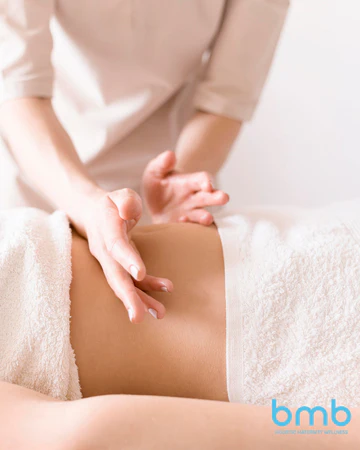
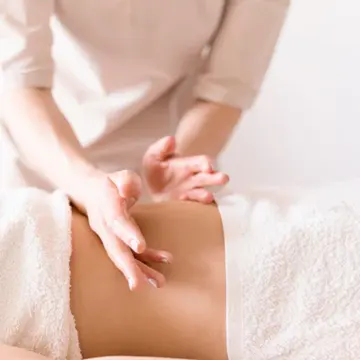
Made images into webp
small KB to render faster

diff --git a/src/_mock/_others.js b/src/_mock/_others.js
@@ -11,7 +11,7 @@ export const _carouselPackages = [
   {
     id: 1,
     name: '28 Days Dual Meal',
-    image: '/menu/Nourishing_and_Beautifying_Black_Chicken_Soup.png',
+    image: '/menu/HakkaYellowWineChickenwithBlackFungus_360x.webp',
     alt: '28 Days Dual Meal',
     description: 'Lunch and Dinner | $$/meal',
     price: '$1,768.00'
@@ -19,7 +19,7 @@ export const _carouselPackages = [
   {
     id: 2,
     name: '14 Days Dual Meal',
-    image: '/menu/Pigs_Trotter_with_Ginger_Vinegar_and_Egg.png',
+    image: '/menu/Pigs_Trotter_with_Ginger_Vinegar_and_Egg.webp',
     alt: '14 Days Dual Meal',
     description: 'Lunch and Dinner | $$/meal',
     price: '$968.00'
@@ -27,7 +27,7 @@ export const _carouselPackages = [
   {
     id: 3,
     name: '7 Days Dual Meal',
-    image: '/menu/He_Shou_Wu_Pork_Rib_Soup.png',
+    image: '/menu/product-2.webp',
     alt: '7 Days Dual Meal',
     description: 'Lunch and Dinner | $$/meal',
     price: '$498.00'
@@ -46,7 +46,7 @@ export const _carouselBenefits = [
   {
     id: 2,
     name: 'Meals crafted for your recovery',
-    image: '/assets/benefitsImage/Benefit-2.png',
+    image: '/assets/benefitsImage/Benefit-2.webp',
     alt: 'Meals crafted for your recovery',
     size: 'cover',
     description: 'Our meals are prepared low in sodium and MSG-free without compromising the taste. These essential nutrients and traditional herbs improve digestion, support healthy lactation and restore the body\'s core energy.',
@@ -54,7 +54,7 @@ export const _carouselBenefits = [
   {
     id: 3,
     name: 'Alchemy Fibre™ For healthier mum',
-    image: '/assets/benefitsImage/Benefit-3.png',
+    image: '/assets/benefitsImage/Benefit-3.webp',
     alt: 'Alchemy Fibre™ For healthier mum',
     size: 'contain',
     description: 'At Chilli Padi Confinement, we enhance our Fragrant White Rice with Alchemy Fibre™ for Rice, providing a healthier choice for new mothers. This revolutionary blend of low GI, high fibre, and prebiotics transforms white rice, significantly increasing its fibre content without compromising taste or texture.',
@@ -66,7 +66,7 @@ export const _carouselPromotion = [
     id: 1,
     name: 'Baby Full Month Gift Set',
     url: paths.product.root,
-    image: '/assets/feature/feature-3.png',
+    image: '/assets/feature/feature-3.webp',
     alt: 'Baby Full Month Gift Set',
     size: 'cover',
     description: 'Celebrate the arrival of your newborn! Full Month Gift Sets are typically given to friends and relatives to announce the birth of a baby. A time-honoured tradition in Chinese culture, these symbolic gift sets, also known as Full Moon Gift Boxes (满月礼盒), typically contain red eggs, ang ku kueh, and cake.',
@@ -75,7 +75,7 @@ export const _carouselPromotion = [
     id: 2,
     name: 'BMB Packages',
     url: paths.product.root,
-    image: '/assets/feature/feature-1.png',
+    image: '/assets/feature/feature-1.webp',
     alt: 'BMB Packages',
     size: 'cover',
     description: 'BMB\'s team of certified professionals specializes in both Traditional Chinese Massage (TCM) and Javanese methods. Their proprietary massage strokes combine Javanese techniques and Meridian points, effectively decreasing swelling, relieving pain, and regulating hormones.',
@@ -84,7 +84,7 @@ export const _carouselPromotion = [
     id: 3,
     name: 'Baby Shower Catering',
     url: 'https://chilliapi.com.sg/catering/menu/baby-shower-buffet',
-    image: '/assets/feature/feature-2.jpg',
+    image: '/assets/feature/feature-2.webp',
     alt: 'Baby Shower',
     size: 'cover',
     description: 'Our catering services go beyond just great food. We also offer thematic set-ups at an additional cost to make your baby shower even more special and memorable. Our team of experienced and professional caterers will work closely with you to ensure that your event is a success and that your guests are thoroughly impressed.',
@@ -95,7 +95,7 @@ export const _carouselPopularDish = [
   {
     id: 1,
     name: 'Pig\'s Trotter with Ginger, Vinegar and Egg',
-    image: '/assets/popularDish/pigtrotters_flatlay 1.png',
+    image: '/assets/popularDish/pigtrotters_flatlay 1.webp',
     alt: 'Pig Trotter with Ginger, Vinegar and Egg',
     description: 'Pig trotters are often consumed during confinement as they are rich in collagen. When combined with vinegar, pig trotters can help to alleviate joint pain, improve skin conditions and have a warming effect on the body. ',
     chineseName: '猪脚醋',
@@ -104,7 +104,7 @@ export const _carouselPopularDish = [
   {
     id: 2,
     name: 'Milk Boosting Fish and Papaya Soup',
-    image: '/assets/popularDish/Milk Boosting Fish and Papaya Soup.png',
+    image: '/assets/popularDish/Milk Boosting Fish and Papaya Soup.webp',
     alt: 'Milk Boosting Fish and Papaya Soup',
     description: 'Papaya fish soup is a traditional dish highly recommended for confinement mothers. The combination of papaya and fish helps to enhance the healing process, support lactation and improve digestion.',
     chineseName: '木瓜鱼汤',
@@ -113,7 +113,7 @@ export const _carouselPopularDish = [
   {
     id: 3,
     name: 'Wok Fried Huai Shan Noodle with Egg' ,
-    image: '/assets/popularDish/Wok Fried Huai Shan Noodle with Egg.png',
+    image: '/assets/popularDish/Wok Fried Huai Shan Noodle with Egg.webp',
     alt: 'Wok Fried Huai Shan Noodle with Egg',
     description: 'Wok Fried Huai Shan Noodle with Egg is a popular dish during confinement. It is believed that the dish helps to restore energy and strength after childbirth, while also providing essential nutrients for recovery.',
     chineseName: '蛋炒淮山面',
@@ -224,12 +224,12 @@ export const _socials = [
   {
     value: 'facebook',
     label: 'Facebook',
-    path: 'https://www.facebook.com/chillipadiconfinement/',
+    href: 'https://www.facebook.com/chillipadiconfinement/',
   },
   {
     value: 'instagram',
     label: 'Instagram',
-    path: 'https://www.instagram.com/chillipadiconfinement/',
+    href: 'https://www.instagram.com/chillipadiconfinement/',
   }
 ];
 

diff --git a/src/layouts/main/footer.jsx b/src/layouts/main/footer.jsx
@@ -136,7 +136,14 @@ export function Footer({ sx, layoutQuery = 'md', ...other }) {
               })}
             >
               {_socials.map((social) => (
-                <IconButton key={social.label}>
+                <IconButton
+                  key={social.label}
+                  component="a"
+                  href={social.href}
+                  target="_blank"
+                  rel="noopener noreferrer"
+                  aria-label={social.label}
+                >
                   {social.value === 'facebook' && <FacebookIcon />}
                   {social.value === 'instagram' && <InstagramIcon />}
                 </IconButton>

diff --git a/src/sections/home/home-partners.jsx b/src/sections/home/home-partners.jsx
@@ -34,7 +34,10 @@ export function HomePartners({ sx, ...other }) {
 }
 
 export function CarouselAutoScroll({ data }) {
-    const carousel = useCarousel({ loop: true }, [AutoScroll({ playOnInit: true })]);
+    const carousel = useCarousel(
+        { loop: true },
+        [AutoScroll({ playOnInit: true, stopOnInteraction: false })]
+    );
     return (
         <Box sx={{ position: 'relative', width: 350, mx: 'auto', overflow: 'hidden' }}>
             <Carousel carousel={carousel} sx={{ borderRadius: 2, overflow: 'visible' }}>

diff --git a/src/sections/home/home-hero.jsx b/src/sections/home/home-hero.jsx
@@ -4,7 +4,7 @@ import { Carousel, useCarousel, CarouselDotButtons } from 'src/components/carous
 
 
 export function HomeHero({ data }) {
-  const carousel = useCarousel({ loop: true }, [Autoplay({ playOnInit: true, delay: 5000 })]);
+  const carousel = useCarousel({ loop: true }, [Autoplay({ playOnInit: true, delay: 5000, stopOnInteraction: false })]);
   return (
     <Box
       sx={{
